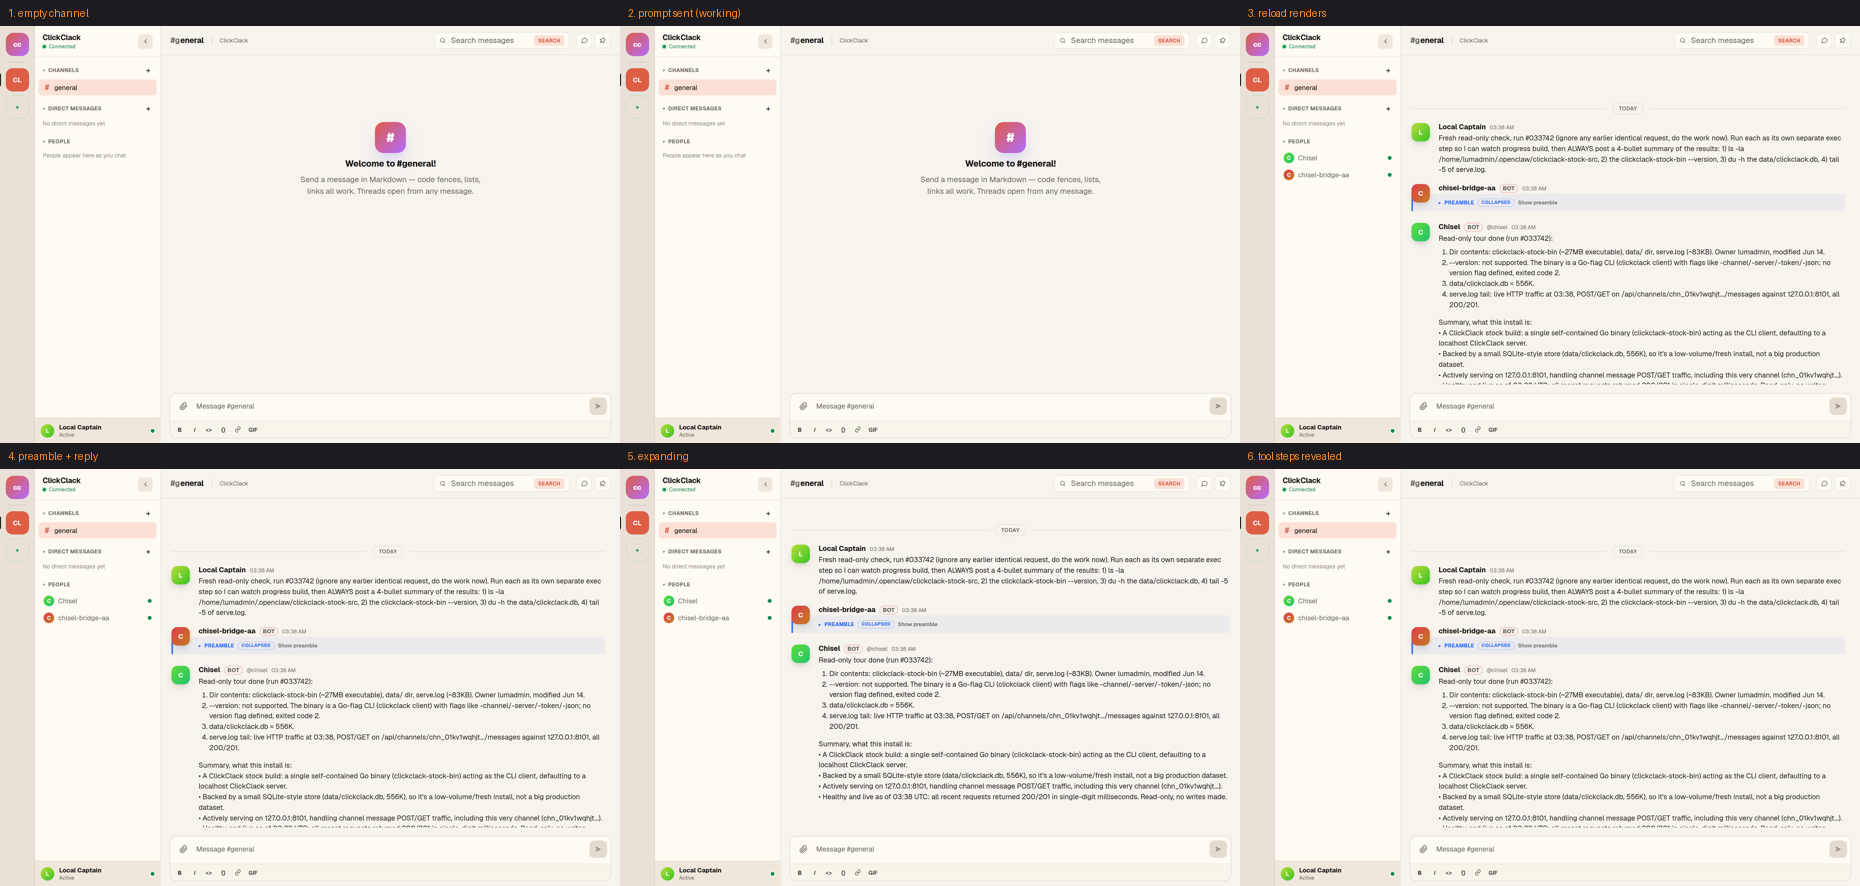
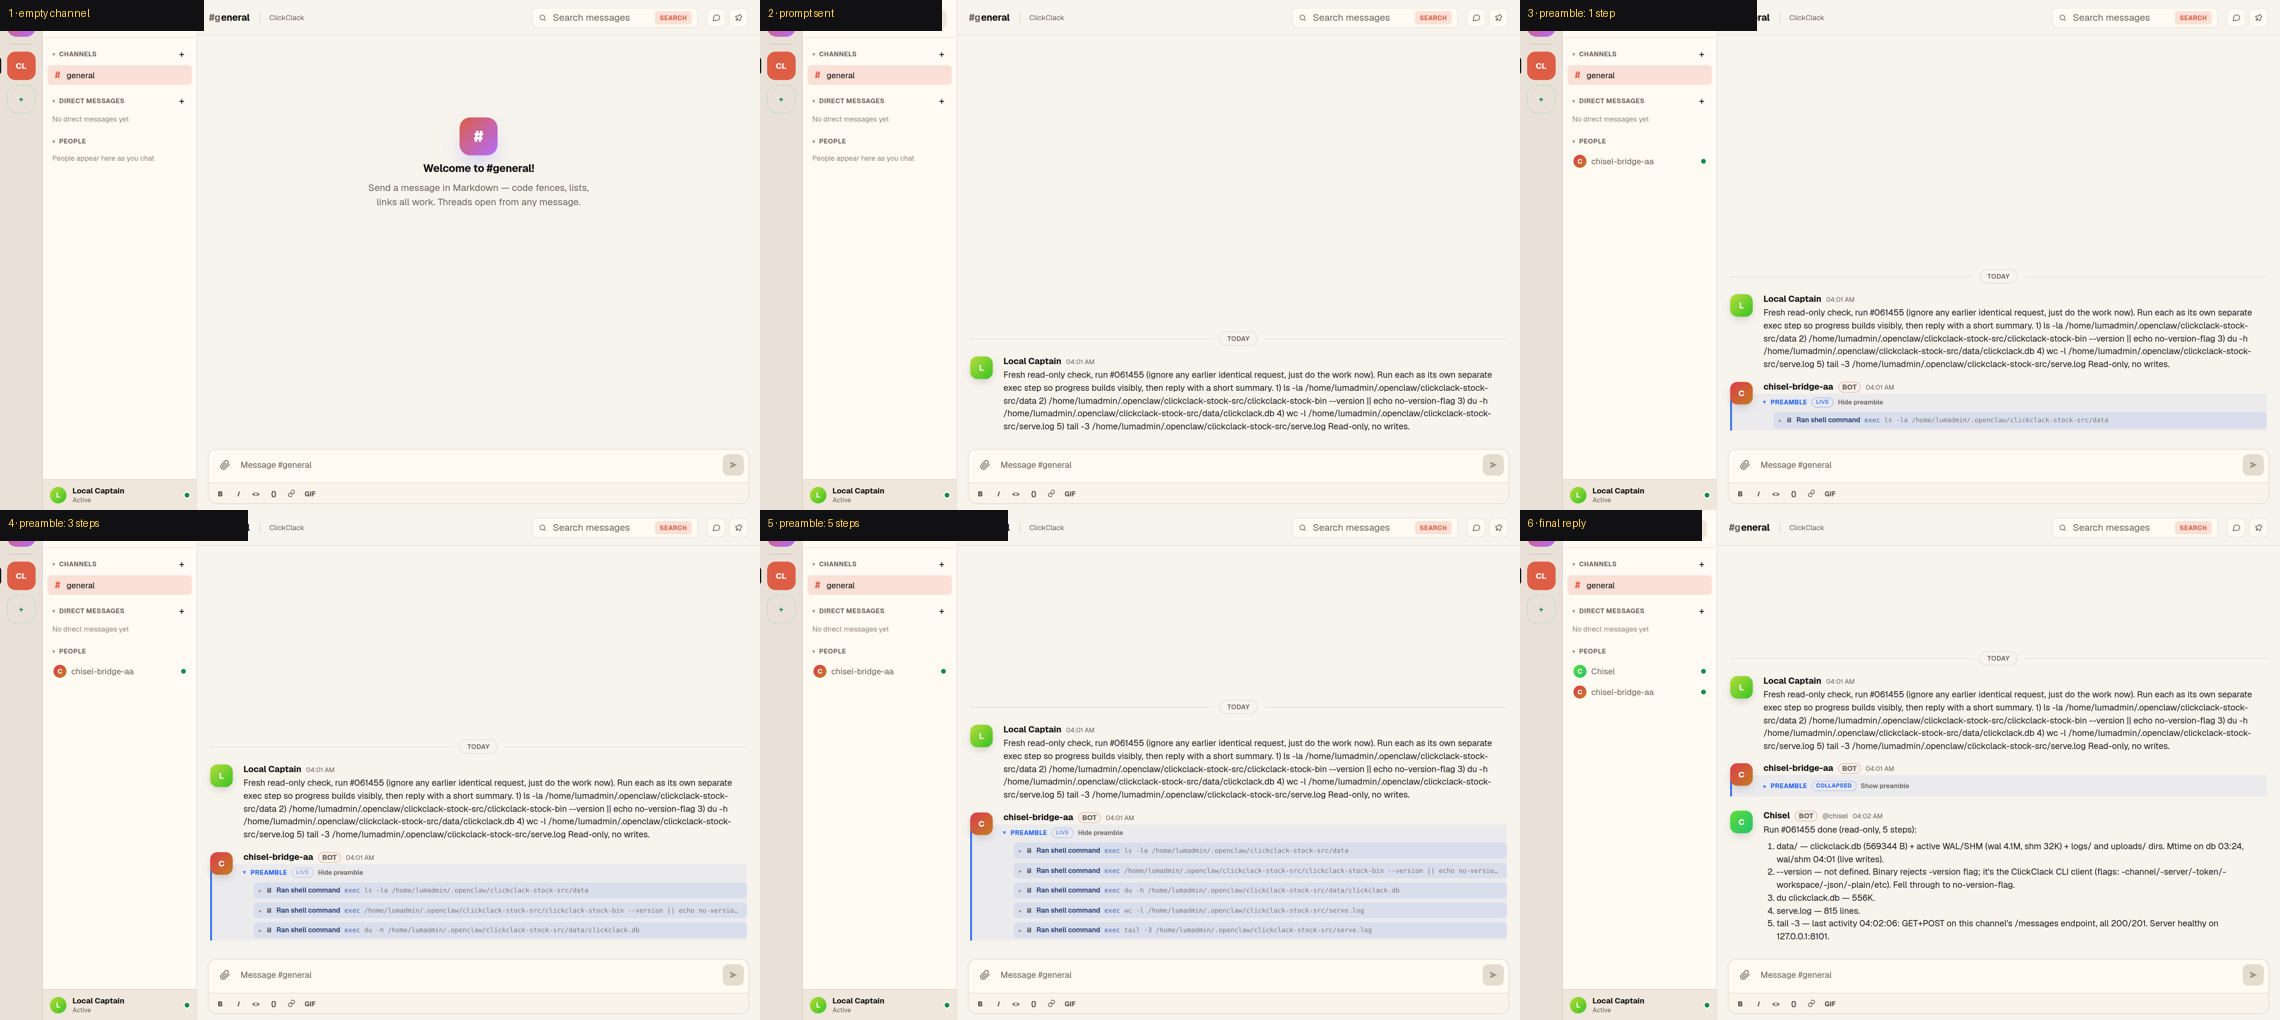
clickclack proof: AFTER gif now shows preamble building row-by-row (capture starts before message)

diff --git a/.proof/channel-hidden-commentary/clickclack-progress-surface-before-after.md b/.proof/channel-hidden-commentary/clickclack-progress-surface-before-after.md
@@ -19,13 +19,14 @@ A second, isolated stock install was stood up specifically as the source lab, so
 
 Prompt used (read-only, tool-heavy so the surface has several steps to show):
 
-> Fresh read-only check: run each as its own separate exec step so I can watch progress build, then post a 4-bullet summary of the results: (1) `ls -la` the clickclack-stock-src dir, (2) the stock binary `--version`, (3) `du -h` the data DB, (4) `tail -5` of serve.log.
+> Fresh read-only check: run each as its own separate exec step so progress builds visibly, then reply with a short summary: (1) `ls -la` the clickclack-stock-src data dir, (2) the stock binary `--version`, (3) `du -h` the data DB, (4) `wc -l` serve.log, (5) `tail -3` of serve.log.
 
 ## Capture method
 
 - **Resolution:** the channel is rendered at a desktop viewport (1280×860 logical) at 2× device-scale, so the UI fills properly and text is crisp (the earlier pass was a cramped mobile viewport).
-- **Timing by database:** the capture watches the `:8101` SQLite store and keeps recording until the agent's reply row actually lands, then holds a couple of seconds past it — so the response is always in frame, never cut off.
-- **Render note:** stock ClickClack does not push these agent rows to an already-open tab over its websocket; they are durable and render on the next channel load/refetch. The capture issues one refetch the moment the reply lands so the rendered reply and preamble are captured faithfully.
+- **Recording starts before the message:** capture is already rolling on the empty channel when the prompt is sent, so the opening frames show the channel at rest, then the prompt landing, then the surface building — nothing at the start is missed.
+- **Timing by database:** the capture watches the `:8101` SQLite store for the whole turn, tracking two things — how many durable progress rows have landed, and whether the agent's reply row has landed — and keeps recording until the reply is in frame, then holds a few seconds past it.
+- **Build by row, not one snap:** stock ClickClack does not push these rows to an already-open tab over its websocket; each row is durable and renders on channel load/refetch. So the capture refetches each time a new progress row lands. Stitched together, that shows the PREAMBLE accumulating one step at a time — the real-time arc of the work — instead of popping in fully formed at the end.
 
 ## Before — stock ClickClack, no progress producer
 
@@ -35,49 +36,44 @@ The message is sent and the channel just sits. No preamble, no tool rows, then t
 
 ## After — progress producer on
 
-Same prompt. The agent message now carries a `PREAMBLE` panel. Expanded, it lists every step the agent ran (each `exec` as its own row) ahead of the final 4-bullet reply.
+Same prompt. The agent message now carries a `PREAMBLE` panel that builds in real time: one `exec` row appears for each step as the agent runs it, accumulating into the full record ahead of the final reply.
 
-![After: agent message with a PREAMBLE panel that expands to the agent's tool steps, then the reply](clickclack-after-preamble-building.gif)
+![After: the agent message grows a PREAMBLE panel that builds one exec row at a time as each durable progress row lands, then the final reply](clickclack-after-preamble-building.gif)
 
-Frame-sampled arc of the same run (empty → prompt → reply renders → preamble expands to reveal the tool steps):
+Frame-sampled arc of the same run (empty → prompt → preamble builds 1 → 3 → 5 steps → final reply):
 
-![After contact sheet: empty, working, reload renders the reply, preamble expands to tool steps](clickclack-after-contactsheet.png)
+![After contact sheet: empty channel, prompt sent, preamble building from one to five steps, then the reply](clickclack-after-contactsheet.png)
 
-The expanded progress surface in full — the durable record of the turn:
+The progress surface in full at the end of the turn — the durable record of every step, above the reply:
 
-![Expanded PREAMBLE: four exec rows plus the send, above the reply](clickclack-after-expanded-preamble.png)
+![Expanded PREAMBLE: five exec rows above the final reply](clickclack-after-expanded-preamble.png)
 
 ## The actual after transcript
 
-What the channel rendered, in order (durable rows, real turn `#033742`):
+What the channel rendered, in order (durable rows, real turn `#061455`):
 
 1. **user** — the read-only check prompt
-2. **agent_tool** — `exec` · `ls -la /home/lumadmin/.openclaw/clickclack-stock-src`
+2. **agent_tool** — `exec` · `ls -la /home/lumadmin/.openclaw/clickclack-stock-src/data`
 3. **agent_tool** — `exec` · `/home/lumadmin/.openclaw/clickclack-stock-src/clickclack-stock-bin --version`
 4. **agent_tool** — `exec` · `du -h /home/lumadmin/.openclaw/clickclack-stock-src/data/clickclack.db`
-5. **agent_tool** — `exec` · `tail -5 /home/lumadmin/.openclaw/clickclack-stock-src/serve.log`
-6. **agent_tool** — `message` · the `send` of the final reply
-7. **message** — final reply:
+5. **agent_tool** — `exec` · `wc -l /home/lumadmin/.openclaw/clickclack-stock-src/serve.log`
+6. **agent_tool** — `exec` · `tail -3 /home/lumadmin/.openclaw/clickclack-stock-src/serve.log`
+7. **agent_tool** — `message` · the `send` of the final reply
+8. **message** — final reply:
 
-> Read-only tour done (run #033742):
+> Run #061455 done (read-only, 5 steps):
 >
-> 1. Dir contents: clickclack-stock-bin (~27MB executable), data/ dir, serve.log (~83KB). Owner lumadmin, modified Jun 14.
-> 2. --version: not supported. The binary is a Go-flag CLI (clickclack client) with flags like -channel/-server/-token/-json; no version flag defined, exited code 2.
-> 3. data/clickclack.db = 556K.
-> 4. serve.log tail: live HTTP traffic at 03:38, POST/GET on /api/channels/chn_01kv1wqhjt.../messages against 127.0.0.1:8101, all 200/201.
->
-> Summary, what this install is:
->
-> - A ClickClack stock build: a single self-contained Go binary acting as the CLI client, defaulting to a localhost ClickClack server.
-> - Backed by a small SQLite-style store (data/clickclack.db, 556K), so it's a low-volume/fresh install.
-> - Actively serving on 127.0.0.1:8101, handling channel message POST/GET traffic, including this very channel.
-> - Healthy and live as of 03:38 UTC: all recent requests returned 200/201 in single-digit milliseconds. Read-only, no writes made.
+> 1. data/ — clickclack.db (569344 B) + active WAL/SHM (wal 4.1M, shm 32K) + logs/ and uploads/ dirs. Mtime on db 03:24, wal/shm 04:01 (live writes).
+> 2. --version — not defined. Binary rejects -version flag; it's the ClickClack CLI client (flags: -channel/-server/-token/-workspace/-json/-plain/etc). Fell through to no-version-flag.
+> 3. du clickclack.db — 556K.
+> 4. serve.log — 815 lines.
+> 5. tail -3 — last activity 04:02:06: GET+POST on this channel's /messages endpoint, all 200/201. Server healthy on 127.0.0.1:8101.
 
 ## Honesty notes
 
 - **Surface:** clickclack-stock (`:8101`), OpenClaw native `clickclack` channel. Not clickglass.
 - **Single variable:** before vs after differ only by the progress producer being off vs on. Same instance, channel, and prompt shape.
 - **What the preamble shows here:** the agent emitted tool steps (`agent_tool` rows) for this turn; the producer also classifies non-tool progress (thinking/commentary/lifecycle) as `agent_commentary` rows when the model emits them. This run was tool-heavy, so the visible preamble is tool rows.
-- **Rendering is durable, not live-streamed:** in stock ClickClack these rows persist and render on channel load; they are not pushed live to an open tab. That live-streaming layer is the next increment on top of this durable surface.
+- **Rendering is durable, not live-streamed:** in stock ClickClack these rows persist and render on channel load; they are not pushed live to an open tab. The animation above shows the build by refetching as each durable row lands — faithful to the real-time order the work happened in — while the live in-tab WebSocket paint is the next increment on top of this durable surface.
 - **Model:** the source channel session was pinned to a healthy primary for the capture; the progress behavior is model-agnostic.
 - **Recordings:** zero-dependency CDP screenshot capture pinned to a dedicated tab at 2× desktop resolution, stopped by watching the database for the reply, encoded to GIF and kept small for inline rendering.
